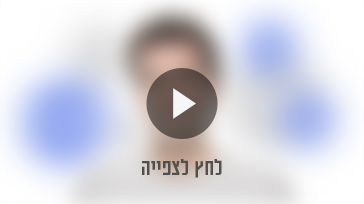
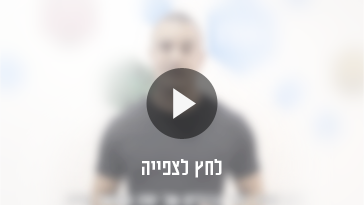
Some elections and elections_only display changes; replace green button and video images; css fixes for margin collapse; etc.

diff --git a/deliver/public/css/style_home.css b/deliver/public/css/style_home.css
@@ -5350,15 +5350,15 @@ body.search-ative #header
 
 
 
-.youtube_img:hover{
-
-    cursor: pointer
+.youtube_img {
+    width: 364px;
+    height: 204px;
+    background: url('/images/elections/youtube.png') no-repeat center center;
 }
 
-
-
-
-
+.youtube_img:hover{
+    background-image: url('/images/elections/youtube_hover.png');
+}
 
 /******************************************************************************/
 
@@ -7742,6 +7742,16 @@ div.greenbutton {
     margin:0 auto;
 }
 
+div.greenbutton a {
+    display: inline-block;
+    width: 323px;
+    height: 120px;
+    background: url('/images/greenbutton.png') no-repeat center center;
+}
+div.greenbutton a:hover {
+    background-image: url('/images/greenbutton_hover.png');
+}
+
 div.greenbutton-grey-background {
     position: absolute;
     top: 0px;
@@ -7756,11 +7766,11 @@ div.greenbutton-grey-background {
     position: relative;
     display: block;
     width: 323px; height: 120px;
-    background: url(../images/greenbotton.png) no-repeat;
+    background: url(/images/greenbutton.png) no-repeat;
     font-size: 0;
 }
 #join_btn:hover {
-    background-image: url(../images/greenbotton_over.png);
+    background-image: url(/images/greenbutton_gover.png);
 }
 div.greenbutton span img {
     margin-right: 115px;

diff --git a/deliver/public/css/election.css b/deliver/public/css/election.css
@@ -24,6 +24,8 @@ ul#display-inline-block-example li {
 	background-repeat: no-repeat;
 	background-position: right center;
 
+    /* Prevent margin collapse */
+    border: 1px solid transparent;
 
 	/* For IE 7 */
 	zoom: 1;
@@ -221,6 +223,7 @@ div.reg-container .leftone {
 	-webkit-border-radius: 4px;
 	-moz-border-radius: 4px;
 	border-radius: 4px;
+    width: 186px;
 }
 
 #box-share {
